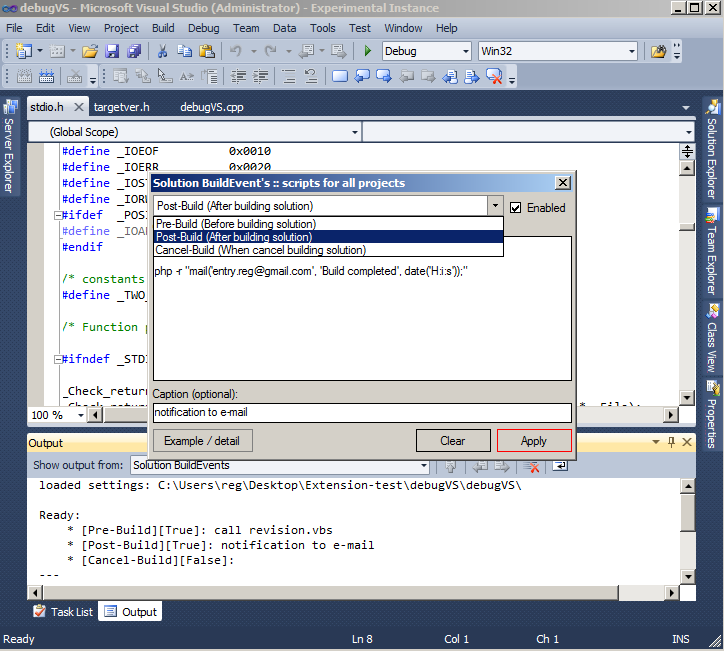
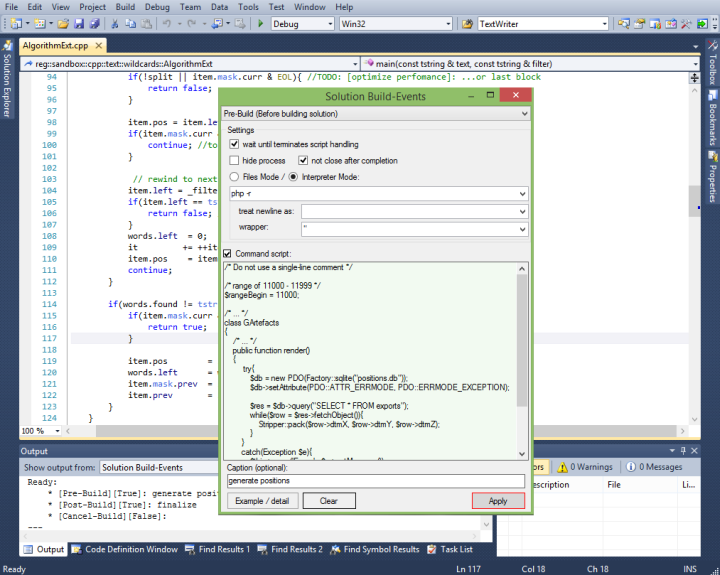
modificate component & minor version up to 2
+ System.Windows.Forms.TextBox -> System.Windows.Forms.RichTextBox
+ changed #112 in resx

diff --git a/vsSolutionBuildEvent/EventsFrm.Designer.cs b/vsSolutionBuildEvent/EventsFrm.Designer.cs
@@ -30,7 +30,6 @@
         {
             this.components = new System.ComponentModel.Container();
             this.comboBoxEvents = new System.Windows.Forms.ComboBox();
-            this.textBoxCommand = new System.Windows.Forms.TextBox();
             this.checkBoxStatus = new System.Windows.Forms.CheckBox();
             this.btnApply = new System.Windows.Forms.Button();
             this.btnClear = new System.Windows.Forms.Button();
@@ -52,8 +51,11 @@
             this.checkBoxProcessKeep = new System.Windows.Forms.CheckBox();
             this.labelToFilesMode = new System.Windows.Forms.Label();
             this.toolTip = new System.Windows.Forms.ToolTip(this.components);
+            this.panelCommand = new System.Windows.Forms.Panel();
+            this.textBoxCommand = new System.Windows.Forms.RichTextBox();
             this.groupBoxSettings.SuspendLayout();
             this.groupBoxMode.SuspendLayout();
+            this.panelCommand.SuspendLayout();
             this.SuspendLayout();
             // 
             // comboBoxEvents
@@ -66,20 +68,6 @@
             this.comboBoxEvents.Size = new System.Drawing.Size(425, 21);
             this.comboBoxEvents.TabIndex = 1;
             this.comboBoxEvents.SelectedIndexChanged += new System.EventHandler(this.comboBoxEvents_SelectedIndexChanged);
-            // 
-            // textBoxCommand
-            // 
-            this.textBoxCommand.Anchor = ((System.Windows.Forms.AnchorStyles)((((System.Windows.Forms.AnchorStyles.Top | System.Windows.Forms.AnchorStyles.Bottom) 
-            | System.Windows.Forms.AnchorStyles.Left) 
-            | System.Windows.Forms.AnchorStyles.Right)));
-            this.textBoxCommand.BackColor = System.Drawing.Color.FromArgb(((int)(((byte)(248)))), ((int)(((byte)(243)))), ((int)(((byte)(243)))));
-            this.textBoxCommand.BorderStyle = System.Windows.Forms.BorderStyle.FixedSingle;
-            this.textBoxCommand.Location = new System.Drawing.Point(3, 222);
-            this.textBoxCommand.Multiline = true;
-            this.textBoxCommand.Name = "textBoxCommand";
-            this.textBoxCommand.Size = new System.Drawing.Size(419, 125);
-            this.textBoxCommand.TabIndex = 3;
-            this.textBoxCommand.KeyPress += new System.Windows.Forms.KeyPressEventHandler(this.textBoxCommand_KeyPress);
             // 
             // checkBoxStatus
             // 
@@ -156,6 +144,7 @@
             this.labelToInterpreterMode.Size = new System.Drawing.Size(85, 13);
             this.labelToInterpreterMode.TabIndex = 9;
             this.labelToInterpreterMode.Text = "Command script:";
+            this.toolTip.SetToolTip(this.labelToInterpreterMode, "Do not use a single-line comment");
             // 
             // checkBoxWaitForExit
             // 
@@ -321,11 +310,37 @@
             this.labelToFilesMode.Text = "Files to execute (separated by enter key):";
             this.labelToFilesMode.Visible = false;
             // 
+            // panelCommand
+            // 
+            this.panelCommand.Anchor = ((System.Windows.Forms.AnchorStyles)((((System.Windows.Forms.AnchorStyles.Top | System.Windows.Forms.AnchorStyles.Bottom) 
+            | System.Windows.Forms.AnchorStyles.Left) 
+            | System.Windows.Forms.AnchorStyles.Right)));
+            this.panelCommand.BorderStyle = System.Windows.Forms.BorderStyle.FixedSingle;
+            this.panelCommand.Controls.Add(this.textBoxCommand);
+            this.panelCommand.Location = new System.Drawing.Point(3, 219);
+            this.panelCommand.Name = "panelCommand";
+            this.panelCommand.Size = new System.Drawing.Size(419, 131);
+            this.panelCommand.TabIndex = 16;
+            // 
+            // textBoxCommand
+            // 
+            this.textBoxCommand.BackColor = System.Drawing.Color.FromArgb(((int)(((byte)(248)))), ((int)(((byte)(243)))), ((int)(((byte)(243)))));
+            this.textBoxCommand.BorderStyle = System.Windows.Forms.BorderStyle.None;
+            this.textBoxCommand.Dock = System.Windows.Forms.DockStyle.Fill;
+            this.textBoxCommand.Location = new System.Drawing.Point(0, 0);
+            this.textBoxCommand.Name = "textBoxCommand";
+            this.textBoxCommand.ScrollBars = System.Windows.Forms.RichTextBoxScrollBars.Vertical;
+            this.textBoxCommand.Size = new System.Drawing.Size(417, 129);
+            this.textBoxCommand.TabIndex = 4;
+            this.textBoxCommand.Text = "";
+            this.textBoxCommand.KeyPress += new System.Windows.Forms.KeyPressEventHandler(this.textBoxCaption_KeyPress);
+            // 
             // EventsFrm
             // 
             this.AutoScaleDimensions = new System.Drawing.SizeF(6F, 13F);
             this.AutoScaleMode = System.Windows.Forms.AutoScaleMode.Font;
             this.ClientSize = new System.Drawing.Size(425, 422);
+            this.Controls.Add(this.panelCommand);
             this.Controls.Add(this.groupBoxSettings);
             this.Controls.Add(this.labelToInterpreterMode);
             this.Controls.Add(this.labelCaption);
@@ -334,7 +349,6 @@
             this.Controls.Add(this.btnClear);
             this.Controls.Add(this.btnApply);
             this.Controls.Add(this.checkBoxStatus);
-            this.Controls.Add(this.textBoxCommand);
             this.Controls.Add(this.comboBoxEvents);
             this.Controls.Add(this.labelToFilesMode);
             this.MinimizeBox = false;
@@ -347,6 +361,7 @@
             this.groupBoxSettings.PerformLayout();
             this.groupBoxMode.ResumeLayout(false);
             this.groupBoxMode.PerformLayout();
+            this.panelCommand.ResumeLayout(false);
             this.ResumeLayout(false);
             this.PerformLayout();
 
@@ -355,7 +370,6 @@
         #endregion
 
         private System.Windows.Forms.ComboBox comboBoxEvents;
-        private System.Windows.Forms.TextBox textBoxCommand;
         private System.Windows.Forms.CheckBox checkBoxStatus;
         private System.Windows.Forms.Button btnApply;
         private System.Windows.Forms.Button btnClear;
@@ -377,5 +391,7 @@
         private System.Windows.Forms.ComboBox comboBoxWrapper;
         private System.Windows.Forms.Label labelWrapper;
         private System.Windows.Forms.ToolTip toolTip;
+        private System.Windows.Forms.Panel panelCommand;
+        private System.Windows.Forms.RichTextBox textBoxCommand;
     }
 }

diff --git a/vsSolutionBuildEvent/vsSolutionBuildEventPackage.cs b/vsSolutionBuildEvent/vsSolutionBuildEventPackage.cs
@@ -1,26 +1,9 @@
 /*
-    * The MIT License (MIT)
-    * 
-    * Copyright (c) 2013 Developed by reg <entry.reg@gmail.com>
-    * 
-    * Permission is hereby granted, free of charge, to any person obtaining a copy
-    * of this software and associated documentation files (the "Software"), to deal
-    * in the Software without restriction, including without limitation the rights
-    * to use, copy, modify, merge, publish, distribute, sublicense, and/or sell
-    * copies of the Software, and to permit persons to whom the Software is
-    * furnished to do so, subject to the following conditions:
-    * 
-    * The above copyright notice and this permission notice shall be included in
-    * all copies or substantial portions of the Software.
-    * 
-    * THE SOFTWARE IS PROVIDED "AS IS", WITHOUT WARRANTY OF ANY KIND, EXPRESS OR
-    * IMPLIED, INCLUDING BUT NOT LIMITED TO THE WARRANTIES OF MERCHANTABILITY,
-    * FITNESS FOR A PARTICULAR PURPOSE AND NONINFRINGEMENT. IN NO EVENT SHALL THE
-    * AUTHORS OR COPYRIGHT HOLDERS BE LIABLE FOR ANY CLAIM, DAMAGES OR OTHER
-    * LIABILITY, WHETHER IN AN ACTION OF CONTRACT, TORT OR OTHERWISE, ARISING FROM,
-    * OUT OF OR IN CONNECTION WITH THE SOFTWARE OR THE USE OR OTHER DEALINGS IN
-    * THE SOFTWARE.
- */
+ * Copyright (c) 2013 Developed by reg <entry.reg@gmail.com>
+ * 
+ * Distributed under the MIT license
+ * (see accompanying file LICENSE or a copy at http://opensource.org/licenses/MIT)
+*/
 
 using System;
 using System.Diagnostics;
@@ -39,7 +22,7 @@ using EnvDTE;
 namespace reg.ext.vsSolutionBuildEvent
 {
     [PackageRegistration(UseManagedResourcesOnly = true)]
-    [InstalledProductRegistration("#110", "#112", "0.1.2", IconResourceID = 400)]
+    [InstalledProductRegistration("#110", "#112", "0.2.2", IconResourceID = 400)]
     // This attribute is needed to let the shell know that this package exposes some menus.
     [ProvideMenuResource("Menus.ctmenu", 1)]
     [Guid(GuidList.guidvsSolutionBuildEventPkgString)]
